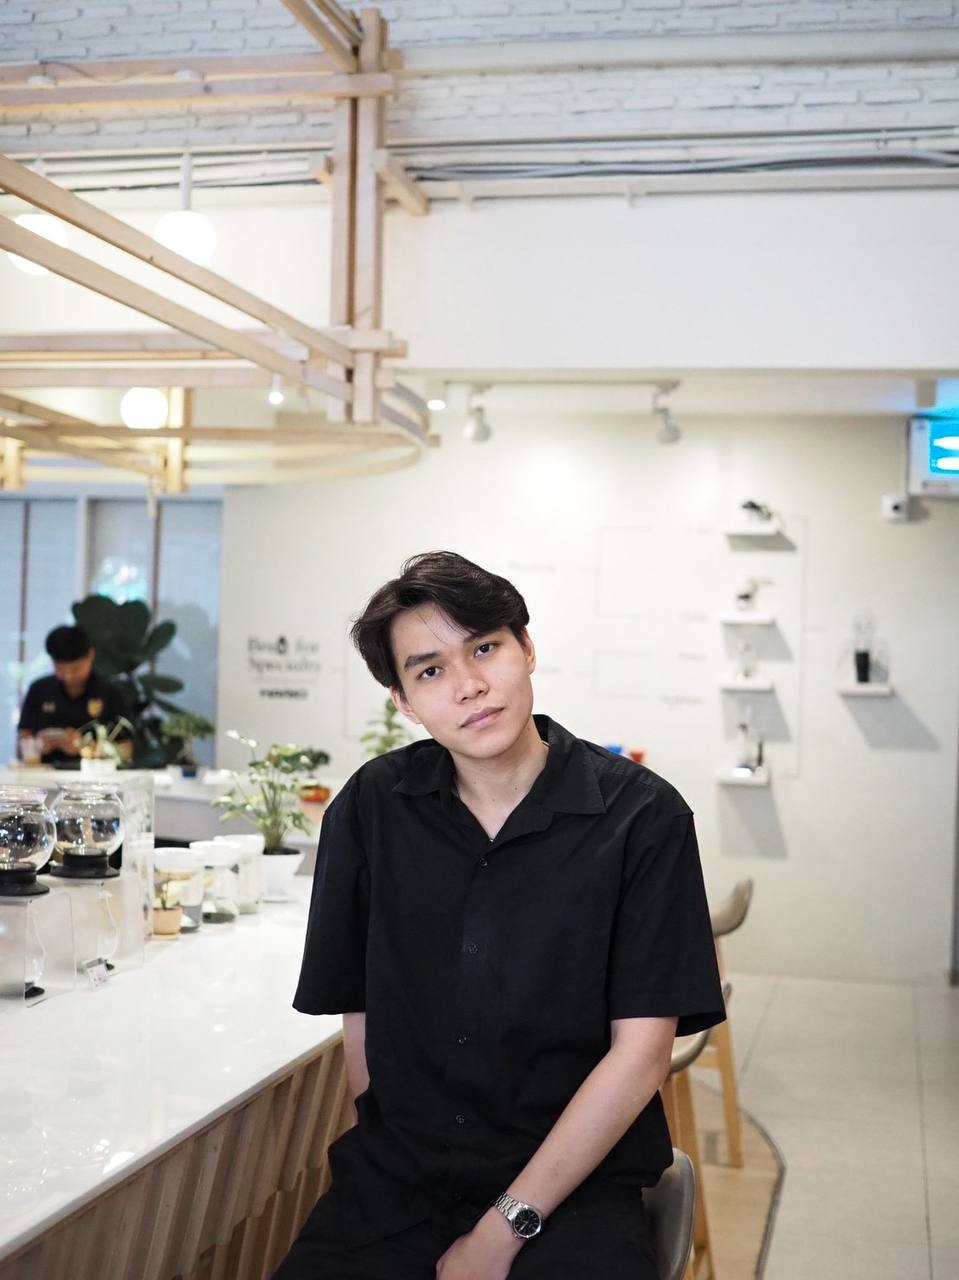
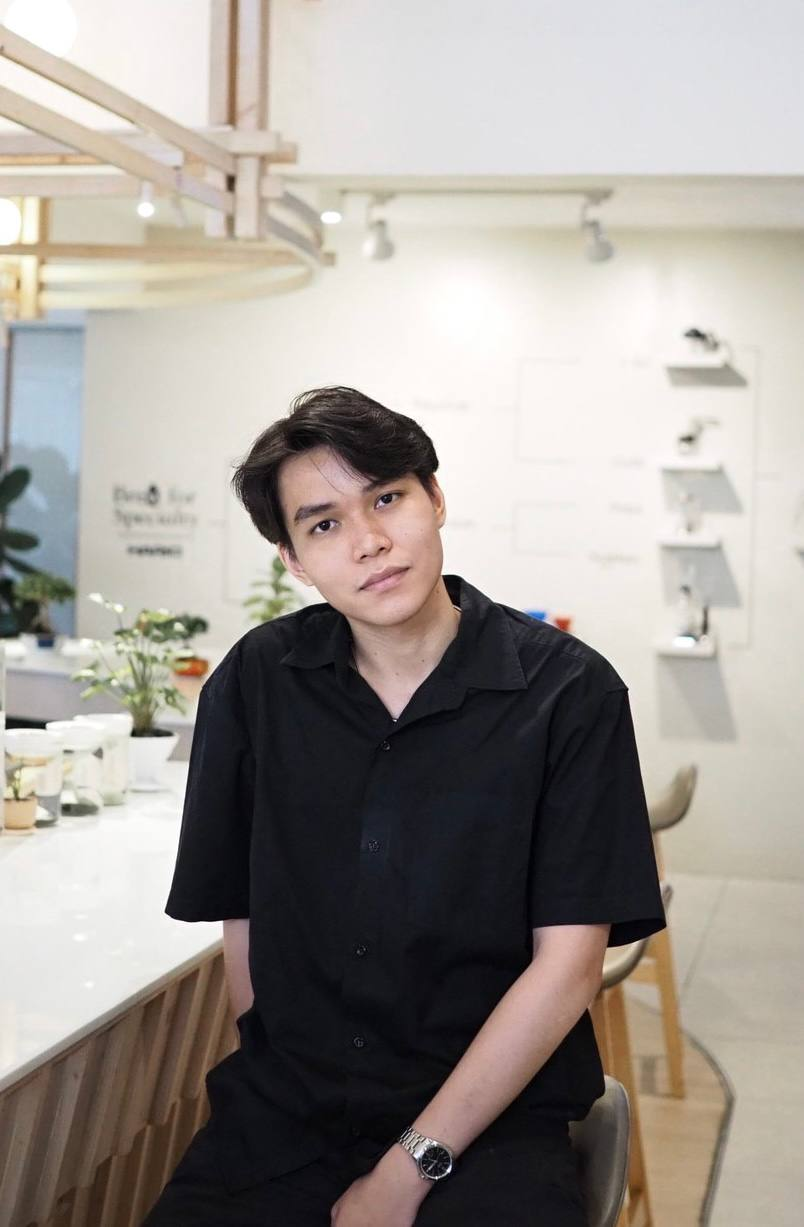
update: resume and interface

diff --git a/features/HomePage.tsx b/features/HomePage.tsx
@@ -165,7 +165,7 @@ const Social = styled.div`
 const Yourself = styled.div`
   background-image: url('img/main-profile.jpeg');
   background-repeat: no-repeat;
-  background-position: bottom;
+  background-position: center;
   background-size: cover;
   box-shadow: inset 0 0 0 9px rgb(255 255 255/ 30%);
   width: 300px;
